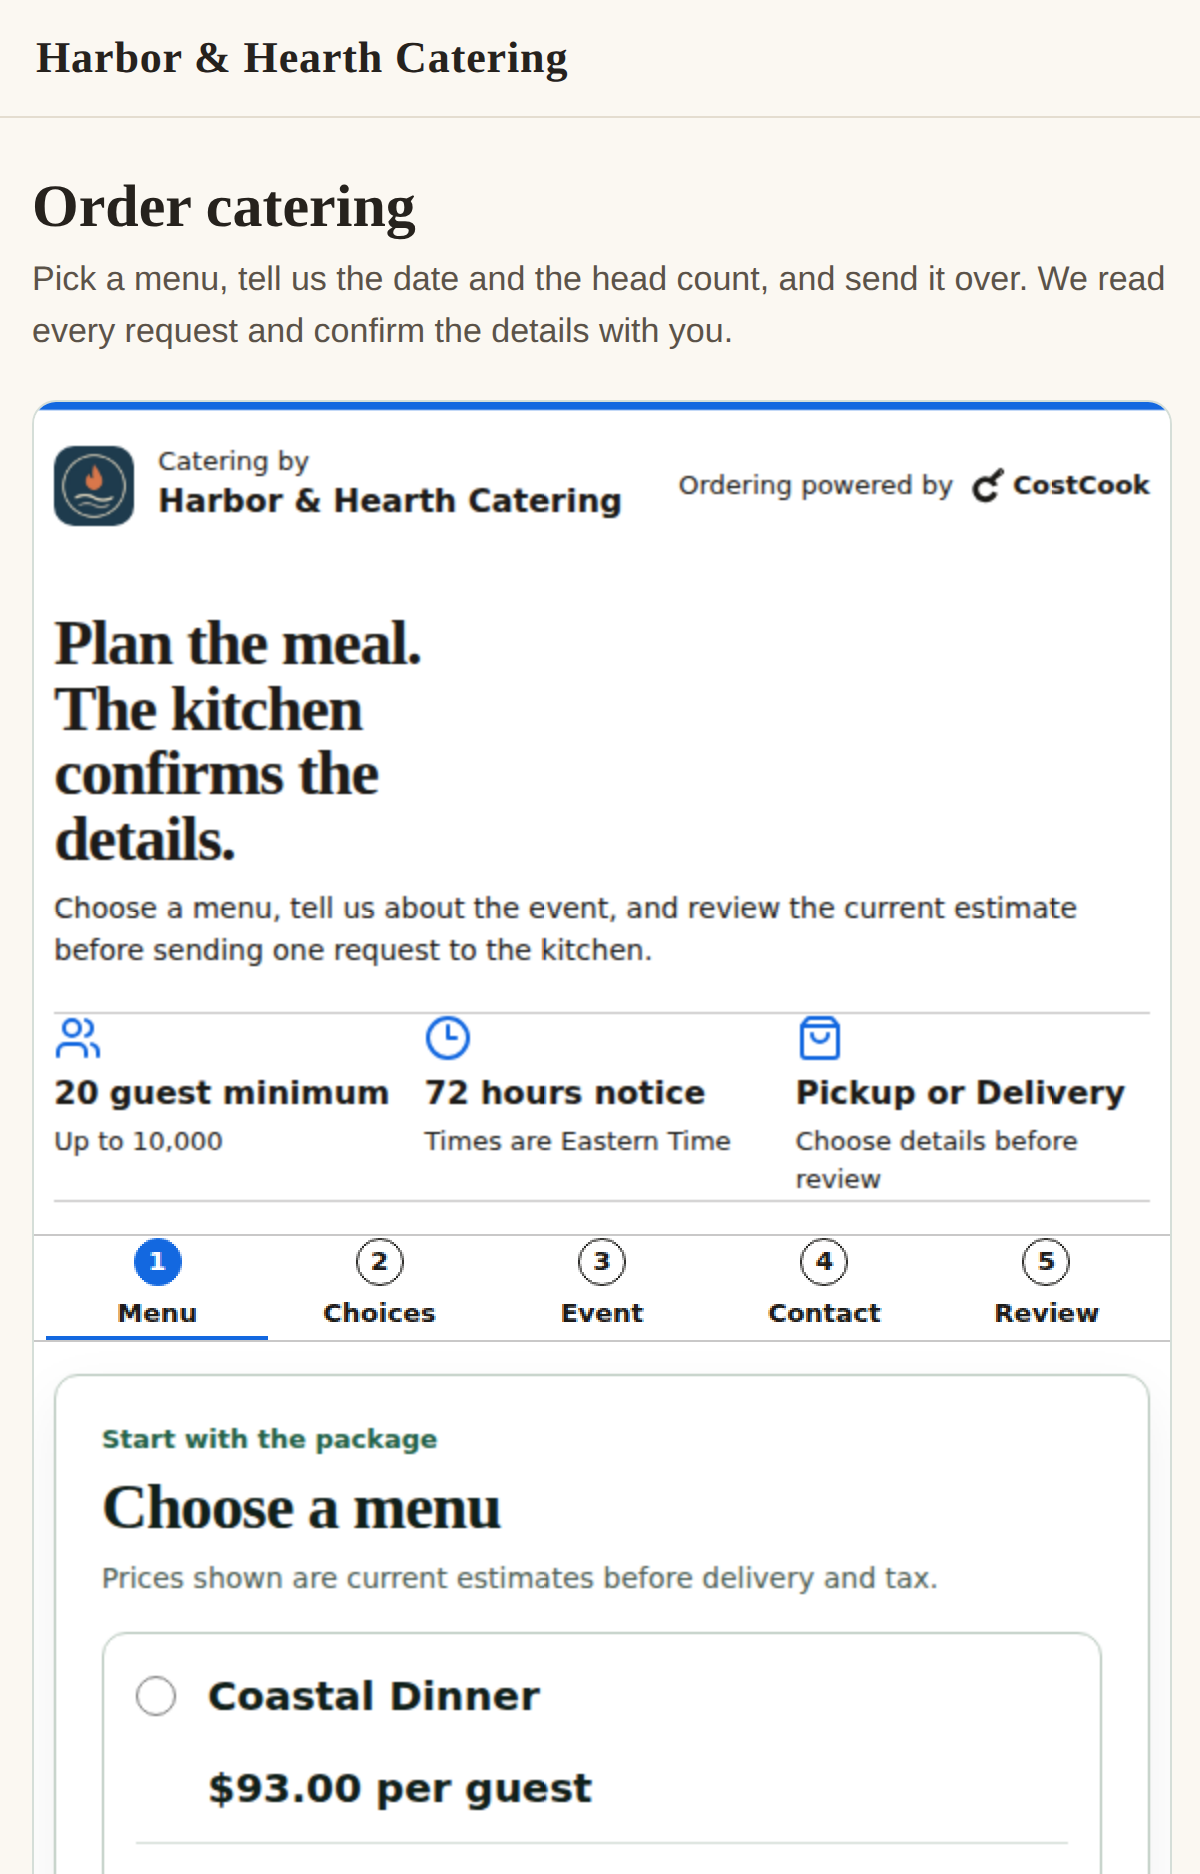
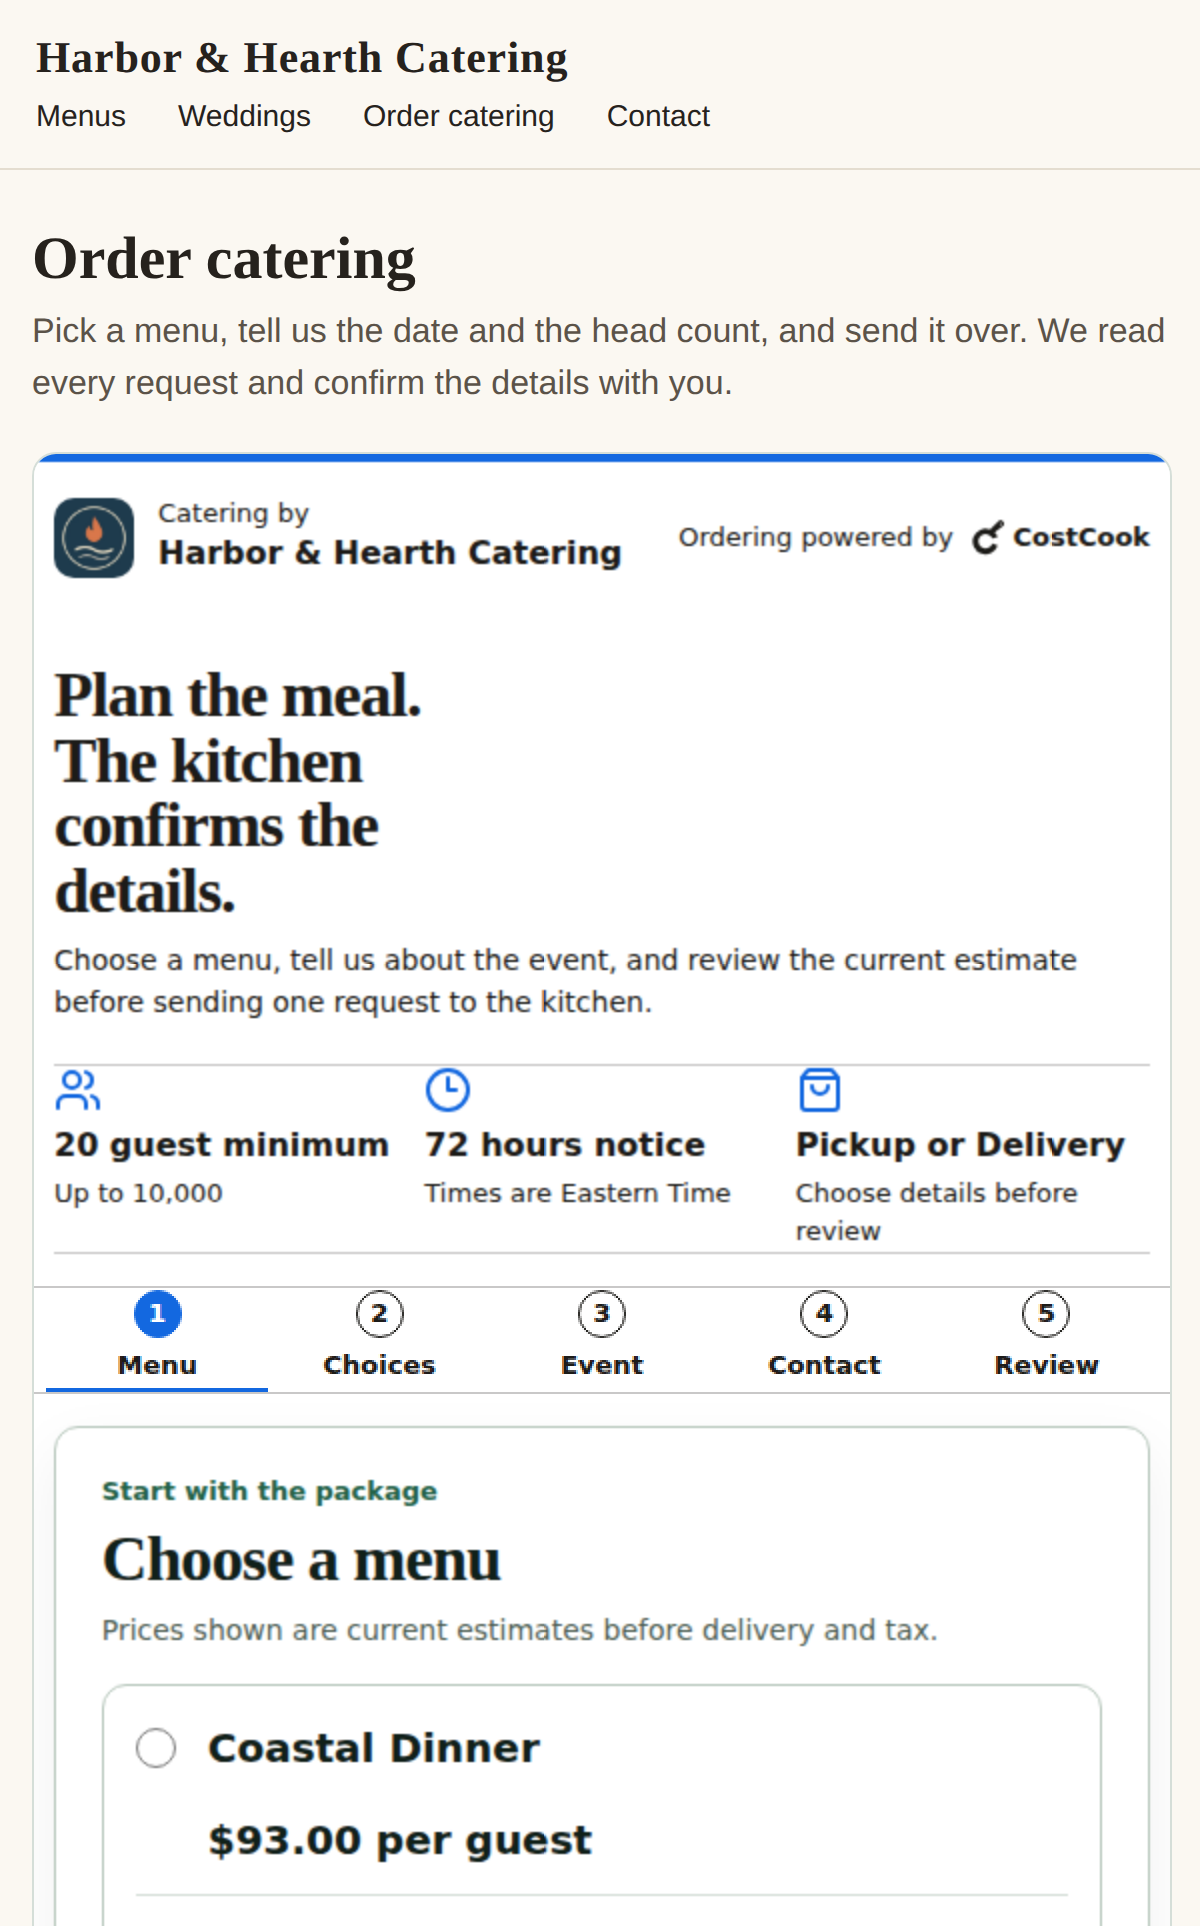
fix(proof): apply the caterer, accessibility and code reviews
- Nutrition preview label scrolls on a phone: its scoped overflow:hidden
  outranked the frame's overflow-x:auto and clipped the right third.
- Screenshot frames are a named, focusable region only while they scroll
  (one ResizeObserver in Base.astro); names say what the frame shows.
- The verify scripts exempt only the image, and only in a frame that
  really scrolls, so a clipping frame fails again.
- Ordering card re-shot with the sample site's nav wrapped, not hidden, so
  it reads as the kitchen's own website.
- Food-cost line says what the narrow frame shows: a bar for the share.
- Nutrition alts name only what each capture shows; card-height comment
  made accurate; SLOT width fixed at 600; one hideStuck helper; dead
  min-width rule and unused desktop summary assets removed.

Changed region(s): [[0.0308, 0.0309, 0.9867, 0.9594], [0.5242, 0.0309, 0.5858, 0.0928]]

diff --git a/src/lib/home.ts b/src/lib/home.ts
@@ -242,7 +242,7 @@ export const kitchenRows = [
 		eyebrow: 'Food cost',
 		pain: 'You quote $95 a head and find out if you made money when the month closes.',
 		heading: 'See the food cost before you quote.',
-		body: 'Every dish shows what it costs per guest and its share of the total. If a price is missing, it tells you which one. It never slips in as zero.',
+		body: 'Every dish shows what it costs per guest, with a bar for its share of the total. If a price is missing, it tells you which one. It never slips in as zero.',
 		shot: withPhone(
 			shot(
 				'food-cost-breakdown',
@@ -320,7 +320,7 @@ export const frontOfHouse = [
 			shot(
 				'ordering-site',
 				'The ordering widget on a caterer’s own website: under the kitchen’s Order catering heading, CostCook’s order form for Harbor & Hearth Catering with a 20 guest minimum, 72 hours notice, pickup or delivery, the steps Menu to Review, and the Coastal Dinner at $93.00 a guest.',
-				[1200, 1874]
+				[1200, 1926]
 			),
 			[780, 2866]
 		)

diff --git a/docs/stories/homepage-redesign-2026-10.story.md b/docs/stories/homepage-redesign-2026-10.story.md
@@ -310,3 +310,11 @@ The section's line ("none of it counts until you confirm it") already says
 this; the held card shows the other half without a word added. Steps 6 and 11
 re-checked: the alt names only what both captures show, no new claim in copy.
 
+
+**Revision 2026-10-09 (readable captures).** The food cost, import, allergens,
+ordering and invoice frames were re-shot at the width the page shows them, so
+the cook reads each at 1:1 instead of squinting at 6 to 8px. At that width the
+menu's table loses its column heads, so the food-cost line now names what the
+eye sees: "what it costs per guest, with a bar for its share of the total".
+Steps 6 and 11 re-checked: every alt names only what its capture shows; no new
+claim in copy.
